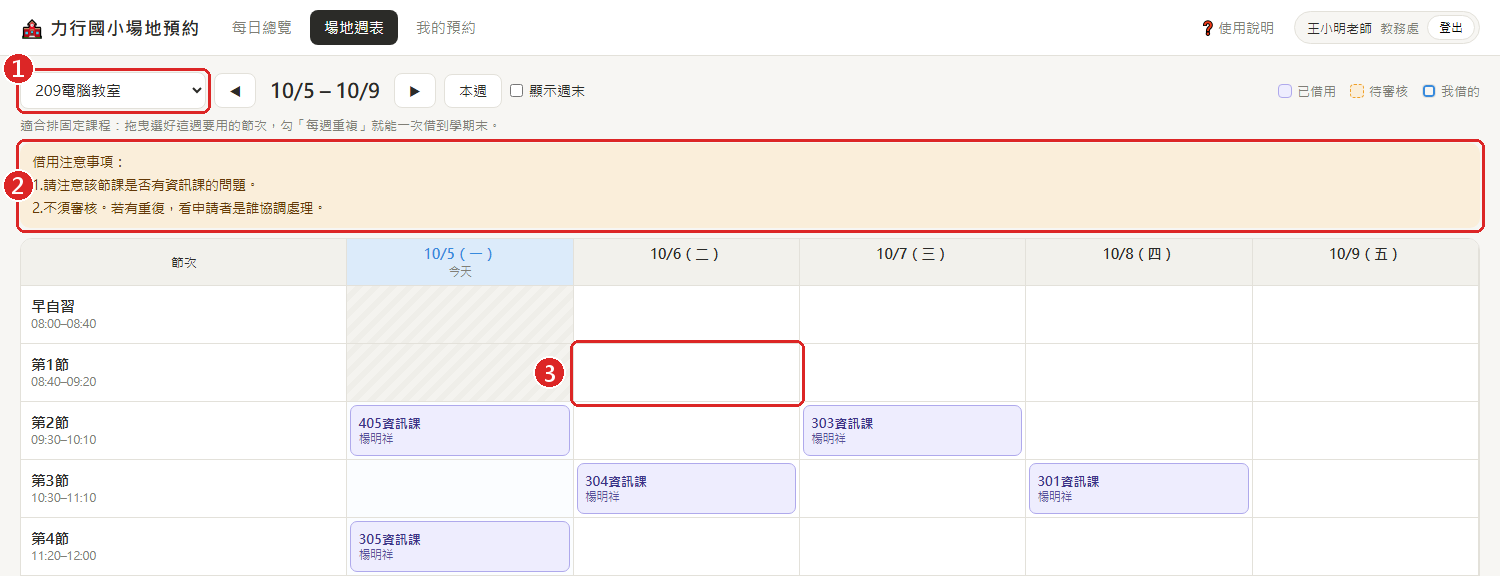
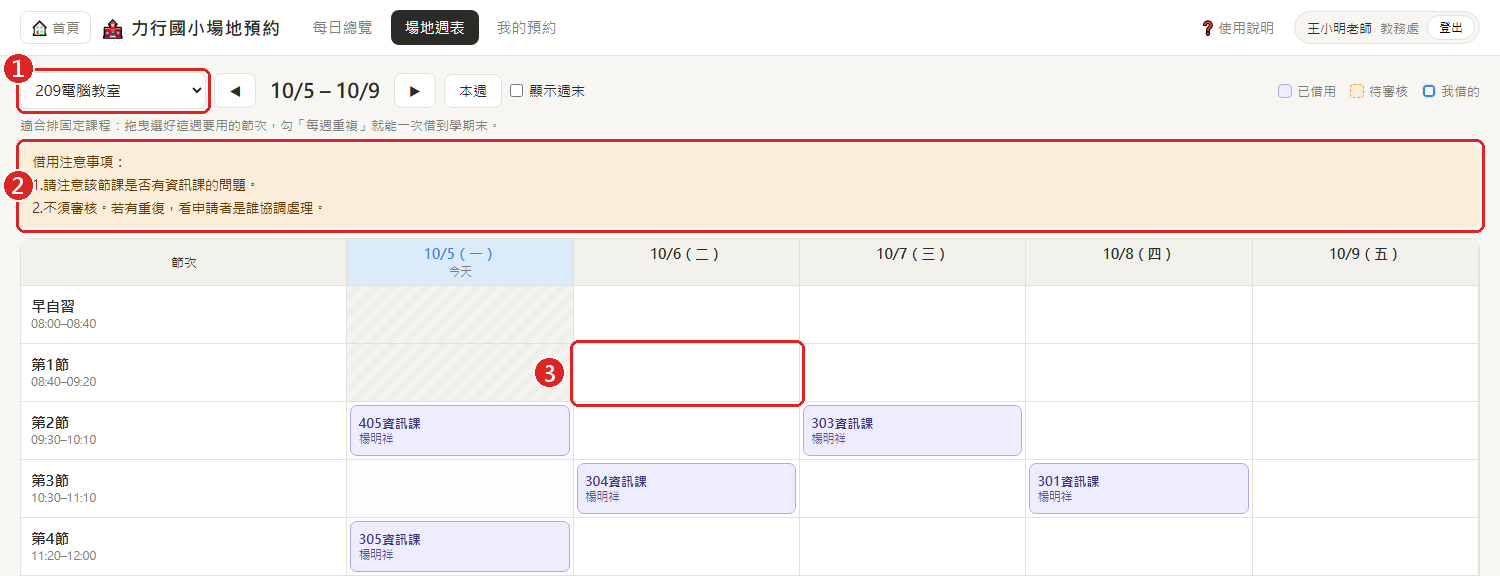
Add home link to the LSPS admin portal (header and login card)

Changed region(s): [[0.0, 0.0, 0.368, 0.0938]]

diff --git a/index.html b/index.html
@@ -26,6 +26,8 @@ nav button.on{background:var(--ink);color:#fff}
 #user-pill{display:flex;align-items:center;gap:8px;font-size:13px;color:var(--muted);background:var(--bg);border:1px solid var(--line);border-radius:99px;padding:3px 4px 3px 12px}
 #user-pill b{color:var(--ink);font-weight:500}
 #user-pill button{font-size:12px;padding:4px 11px;border-radius:99px;border:1px solid var(--line);background:var(--panel);cursor:pointer}
+.home{flex-shrink:0;text-decoration:none;font-size:14px;color:var(--muted);padding:6px 10px;border-radius:8px;border:1px solid var(--line);background:var(--panel);white-space:nowrap}
+.home:hover{background:var(--bg);color:var(--ink)}
 a.help{font-size:14px;color:var(--muted);text-decoration:none;padding:6px 10px;border-radius:8px}
 a.help:hover{background:var(--bg);color:var(--ink)}
 
@@ -169,6 +171,7 @@ body.demo #login-gate{display:none !important}
 </div>
 
 <header>
+  <a class="home" href="https://pingking0220.github.io/" title="回力行國小行政服務首頁">🏠 首頁</a>
   <h1>🏫 力行國小場地預約</h1>
   <nav>
     <button data-v="day" onclick="setView('day')">每日總覽</button>
@@ -279,7 +282,7 @@ body.demo #login-gate{display:none !important}
     <p>請使用學校 Google 帳號登入<br><b>@lsps.tp.edu.tw</b></p>
     <button id="btn-login" onclick="signIn()">使用 Google 帳號登入</button>
     <div id="login-msg"></div>
-    <div style="margin-top:14px;font-size:13px"><a href="guide.html" target="_blank" rel="noopener" style="color:var(--muted)">第一次使用？看操作說明</a></div>
+    <div style="margin-top:14px;font-size:13px"><a href="guide.html" target="_blank" rel="noopener" style="color:var(--muted)">第一次使用？看操作說明</a>　｜　<a href="https://pingking0220.github.io/" style="color:var(--muted)">回行政服務首頁</a></div>
   </div>
 </div>
 
